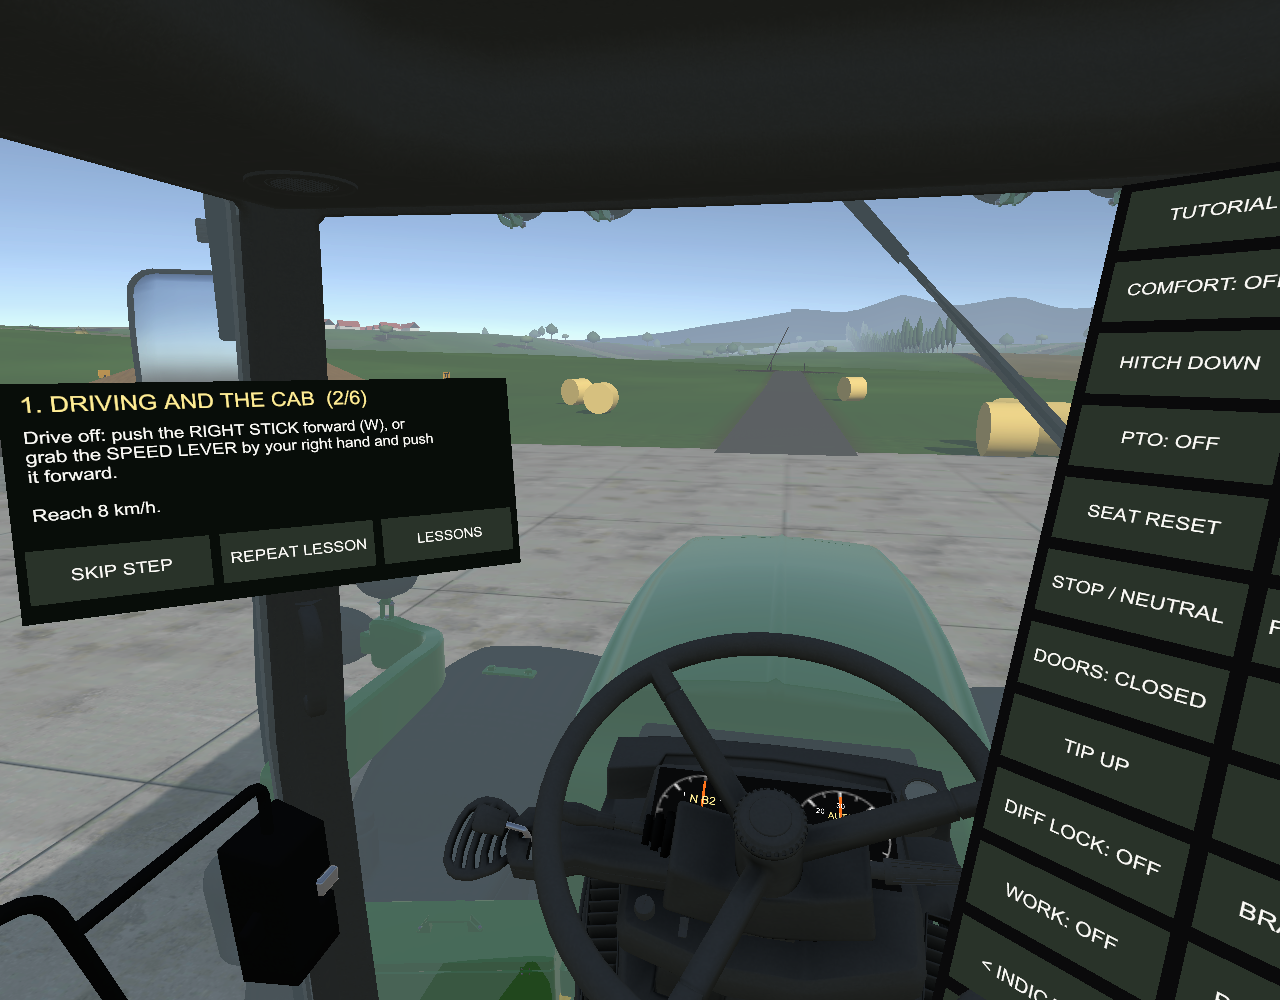
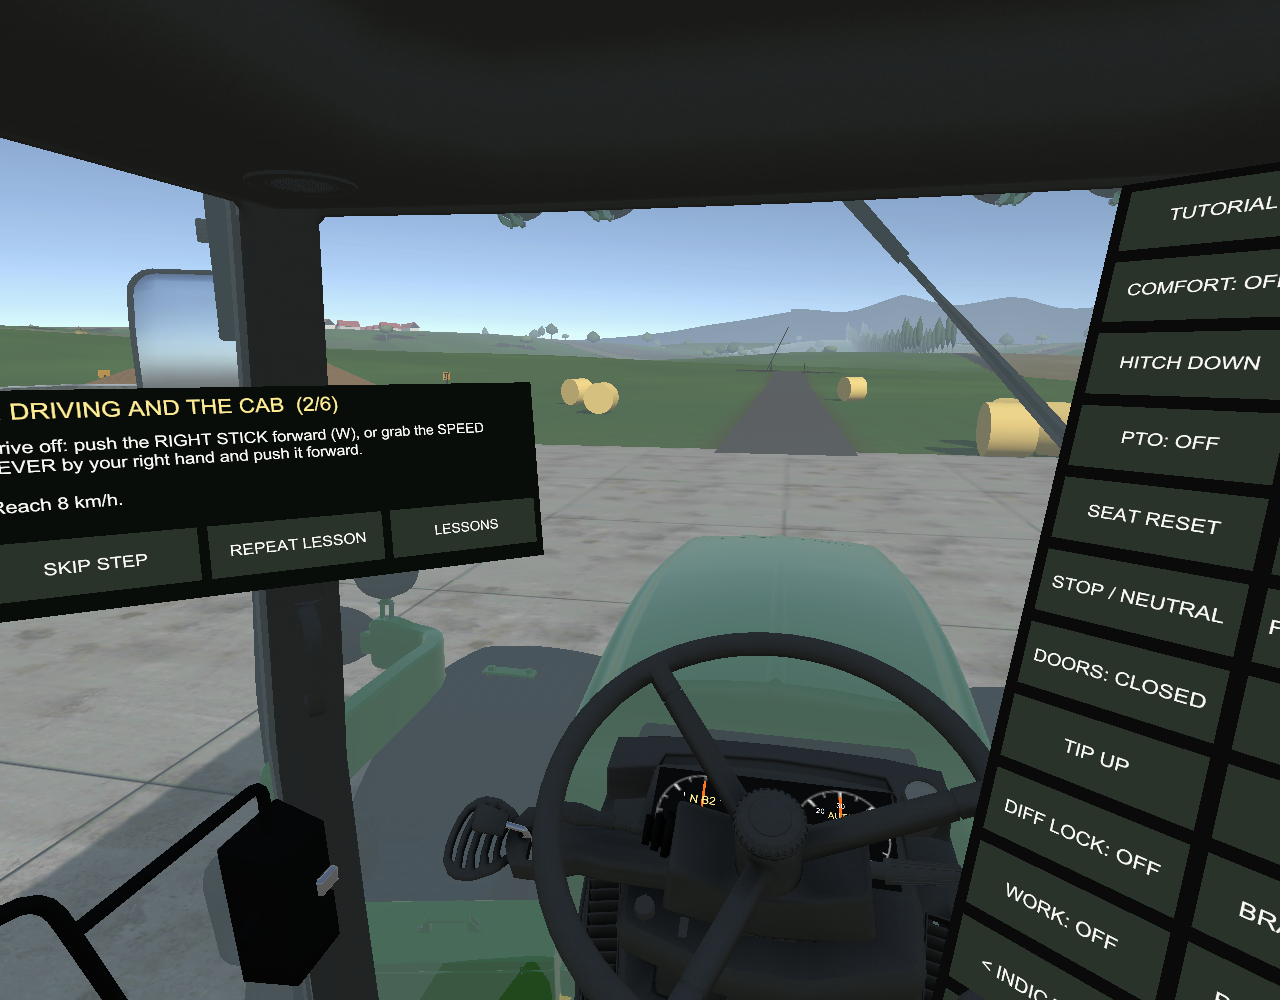
Tutorial board: measure text (font glyph widths), wrap/shrink labels, measured desktop layout

Changed region(s): [[0.0, 0.372, 0.4375, 0.62]]

diff --git a/Assets/Scripts/Tutorial.cs b/Assets/Scripts/Tutorial.cs
@@ -470,8 +470,7 @@ public class Tutorial : MonoBehaviour
     bool dirty = true;
     float cooldown;
 
-    const float BoardW = 0.32f, LineH = 0.0125f, BtnH = 0.034f, Gap = 0.006f;
-    const int WrapChars = 50;
+    const float BoardW = 0.36f, Margin = 0.012f, BtnH = 0.036f, Gap = 0.006f;
 
     void Changed() => dirty = true;
 
@@ -541,9 +540,11 @@ public class Tutorial : MonoBehaviour
         board.gameObject.SetActive(show);
         if (!show) return;
 
-        string body = Wrap(Body, WrapChars);
+        // Line breaks from the font's real glyph widths (a fixed character count let wide letters run off the board).
+        string body = WrapToWidth(bodyText, Body, BoardW - 2f * Margin);
         int lines = body.Split('\n').Length;
         titleText.text = Title;
+        FitSize(titleText, Title, 0.0135f, BoardW - 2f * Margin);
         bodyText.text = body;
         if (dirty || lines != lastLines)
         {
@@ -552,7 +553,11 @@ public class Tutorial : MonoBehaviour
             Layout(lines);
         }
         for (int i = 0; i < boardButtons.Count && i < actions.Count; i++)
-            boardButtons[i].label.text = actions[i].label;
+            if (boardLabels[i] != actions[i].label)
+            {
+                boardLabels[i] = actions[i].label;
+                FitButton(boardButtons[i].label, actions[i].label, boardButtonWidth - 0.012f);
+            }
 
         cooldown -= Time.deltaTime;
         for (int i = 0; i < boardButtons.Count; i++)
@@ -572,6 +577,63 @@ public class Tutorial : MonoBehaviour
         }
     }
 
+    // ---- text measuring (TextMesh: one font pixel = characterSize * 0.1 local units)
+    float Width(TextMesh tm, string line)
+    {
+        font.RequestCharactersInTexture(line, tm.fontSize, tm.fontStyle);
+        float w = 0f;
+        foreach (char c in line)
+            if (font.GetCharacterInfo(c, out CharacterInfo ci, tm.fontSize, tm.fontStyle)) w += ci.advance;
+        return w * tm.characterSize * 0.1f;
+    }
+
+    // Line pitch from the TextMesh size (font.lineHeight is at the font's own size, not tm.fontSize); 1.3 x the size matches the render.
+    float LineHeight(TextMesh tm) => tm.fontSize * tm.characterSize * 0.1f * 1.3f * tm.lineSpacing;
+
+    string WrapToWidth(TextMesh tm, string s, float maxW)
+    {
+        var sb = new System.Text.StringBuilder();
+        foreach (var para in s.Split('\n'))
+        {
+            string line = "";
+            foreach (var word in para.Split(' '))
+            {
+                string tryLine = line.Length == 0 ? word : line + " " + word;
+                if (line.Length > 0 && Width(tm, tryLine) > maxW) { sb.Append(line).Append('\n'); line = word; }
+                else line = tryLine;
+            }
+            sb.Append(line).Append('\n');
+        }
+        return sb.ToString().TrimEnd('\n');
+    }
+
+    static float CharSize(float height, TextMesh tm) => height / (tm.fontSize * 0.1f);
+
+    void FitSize(TextMesh tm, string text, float height, float maxW)
+    {
+        tm.characterSize = CharSize(height, tm);
+        float w = Width(tm, text);
+        if (w > maxW) tm.characterSize *= maxW / w;
+    }
+
+    /// <summary>Button label: one line if it fits, else two lines, else smaller.</summary>
+    void FitButton(TextMesh tm, string text, float maxW)
+    {
+        tm.characterSize = CharSize(0.0105f, tm);
+        if (Width(tm, text) <= maxW) { tm.text = text; return; }
+        tm.characterSize = CharSize(0.0092f, tm);
+        string two = WrapToWidth(tm, text, maxW);
+        while (two.Split('\n').Length > 2 && tm.characterSize > CharSize(0.006f, tm))
+        {
+            tm.characterSize *= 0.9f;
+            two = WrapToWidth(tm, text, maxW);
+        }
+        tm.text = two;
+    }
+
+    float boardButtonWidth;
+    readonly List<string> boardLabels = new List<string>();
+
     void Layout(int lines)
     {
         foreach (var b in boardButtons) { if (Application.isPlaying) Destroy(b.t.gameObject); else DestroyImmediate(b.t.gameObject); }
@@ -579,14 +641,17 @@ public class Tutorial : MonoBehaviour
         int n = actions.Count;
         int cols = n > 4 ? 2 : Mathf.Max(1, n);
         int rows = (n + cols - 1) / cols;
-        float textH = 0.022f + lines * LineH * 1.12f;
+        float titleH = LineHeight(titleText) + 0.006f;
+        float textH = titleH + lines * LineHeight(bodyText) + 0.004f;
         float h = Gap + textH + Gap + rows * (BtnH + Gap) + Gap;
         back.transform.localScale = new Vector3(BoardW, h, 1f);
         back.transform.localPosition = new Vector3(0f, 0f, 0.003f);
         float top = h * 0.5f - Gap;
-        titleText.transform.localPosition = new Vector3(-BoardW * 0.5f + 0.012f, top, -0.001f);
-        bodyText.transform.localPosition = new Vector3(-BoardW * 0.5f + 0.012f, top - 0.022f, -0.001f);
+        titleText.transform.localPosition = new Vector3(-BoardW * 0.5f + Margin, top, -0.001f);
+        bodyText.transform.localPosition = new Vector3(-BoardW * 0.5f + Margin, top - titleH, -0.001f);
         float bw = (BoardW - (cols + 1) * Gap) / cols;
+        boardButtonWidth = bw;
+        boardLabels.Clear();
         float y0 = top - textH - Gap - BtnH * 0.5f;
         for (int i = 0; i < n; i++)
         {
@@ -601,7 +666,8 @@ public class Tutorial : MonoBehaviour
             label.alignment = TextAlignment.Center;
             label.transform.localPosition = new Vector3(0f, 0f, -0.07f);
             label.transform.localScale = new Vector3(1f / bw, 1f / BtnH, 1f);
-            boardButtons.Add((t, face, label, true));   // "inside" until the hand leaves: no press on the frame a page opens
+            boardButtons.Add((t, face, label, true));
+            boardLabels.Add(null);   // "inside" until the hand leaves: no press on the frame a page opens
         }
     }
 
@@ -661,7 +727,8 @@ public class Tutorial : MonoBehaviour
     public void Preview(int lesson, int step)
     {
         if (board == null) { Instance = this; cones.Clear(); lessons.Clear(); BuildLessons(); BuildBoard(); }
-        if (lesson < 0) ShowStart();
+        if (lesson == -2) ShowLessons();
+        else if (lesson < 0) ShowStart();
         else { lessonIndex = lesson; page = Page.Step; EnterStep(step); }
         UpdateBoard();
         UpdateHalos();

diff --git a/Assets/Scripts/DesktopMode.cs b/Assets/Scripts/DesktopMode.cs
@@ -345,21 +345,42 @@ public class DesktopMode : MonoBehaviour
         var tut = Tutorial.Instance;
         if (tut != null && tut.Visible)
         {
-            float tw = Mathf.Min(Screen.width * 0.36f, u * 22f);
+            // Sizes measured from the text: the box grows with the title and body, buttons drop to one column when their labels
+            // are long, and a label that still doesn't fit wraps onto two lines (taller button).
+            float tw = Mathf.Min(Screen.width * 0.42f, u * 30f), inner = tw - u;
             var titleStyle = new GUIStyle(labelStyle) { fontStyle = FontStyle.Bold, normal = { textColor = new Color(1f, 0.85f, 0.3f) } };
-            float bodyH = labelStyle.CalcHeight(new GUIContent(tut.Body), tw - u);
-            int nb = tut.ButtonCount, tcols = nb > 4 ? 2 : Mathf.Max(1, nb), tbrows = (nb + tcols - 1) / tcols;
-            Rect box = new Rect(u * 0.5f, u, tw, u * 1.6f + bodyH + tbrows * (u + gap) + u * 0.6f);
+            var tutButton = new GUIStyle(buttonStyle) { wordWrap = true };
+            float titleH = titleStyle.CalcHeight(new GUIContent(tut.Title), inner);
+            float bodyH = labelStyle.CalcHeight(new GUIContent(tut.Body), inner);
+            int nb = tut.ButtonCount;
+            float widest = 0f;
+            for (int i = 0; i < nb; i++) widest = Mathf.Max(widest, tutButton.CalcSize(new GUIContent(tut.ButtonLabel(i))).x + u * 0.4f);
+            int tcols = nb <= 1 ? 1 : nb > 4 ? 2 : nb;
+            while (tcols > 1 && widest > (inner - (tcols - 1) * gap) / tcols) tcols--;
+            float bw2 = (inner - (tcols - 1) * gap) / tcols;
+            int tbrows = (nb + tcols - 1) / tcols;
+            var rowH = new float[Mathf.Max(1, tbrows)];
+            for (int i = 0; i < nb; i++)
+                rowH[i / tcols] = Mathf.Max(rowH[i / tcols], Mathf.Max(u, tutButton.CalcHeight(new GUIContent(tut.ButtonLabel(i)), bw2) + u * 0.2f));
+            float buttonsH = 0f;
+            for (int r = 0; r < tbrows; r++) buttonsH += rowH[r] + gap;
+            Rect box = new Rect(u * 0.5f, u, tw, u * 0.3f + titleH + u * 0.3f + bodyH + u * 0.4f + buttonsH + u * 0.3f);
             tutorialRect = box;
             GUI.Box(box, GUIContent.none, boxStyle);
-            GUI.Label(new Rect(box.x + u * 0.5f, box.y + u * 0.3f, tw - u, u * 1.2f), tut.Title, titleStyle);
-            GUI.Label(new Rect(box.x + u * 0.5f, box.y + u * 1.5f, tw - u, bodyH), tut.Body, labelStyle);
-            float bw2 = (tw - u - (tcols - 1) * gap) / tcols, by = box.y + u * 1.6f + bodyH + u * 0.2f;
+            float y = box.y + u * 0.3f;
+            GUI.Label(new Rect(box.x + u * 0.5f, y, inner, titleH), tut.Title, titleStyle);
+            y += titleH + u * 0.3f;
+            GUI.Label(new Rect(box.x + u * 0.5f, y, inner, bodyH), tut.Body, labelStyle);
+            y += bodyH + u * 0.4f;
+            int pressed = -1;
             for (int i = 0; i < nb; i++)
             {
-                Rect r = new Rect(box.x + u * 0.5f + (i % tcols) * (bw2 + gap), by + (i / tcols) * (u + gap), bw2, u);
-                if (GUI.Button(r, tut.ButtonLabel(i), buttonStyle)) { tut.Press(i); break; }
+                int r = i / tcols, c = i % tcols;
+                float ry = y;
+                for (int k = 0; k < r; k++) ry += rowH[k] + gap;
+                if (GUI.Button(new Rect(box.x + u * 0.5f + c * (bw2 + gap), ry, bw2, rowH[r]), tut.ButtonLabel(i), tutButton)) pressed = i;
             }
+            if (pressed >= 0) tut.Press(pressed);
         }
         else tutorialRect = Rect.zero;
 

diff --git a/Assets/Scripts/Editor/ProjectSetup.cs b/Assets/Scripts/Editor/ProjectSetup.cs
@@ -3209,6 +3209,8 @@ public static class ProjectSetup
         {
             tutorial.Preview(-1, 0);
             Shot("tutorial_start.png", seat.position, Quaternion.LookRotation(tutorial.transform.position - seat.position));
+            tutorial.Preview(-2, 0);
+            Shot("tutorial_lessons.png", seat.position, Quaternion.LookRotation(tutorial.transform.position - seat.position));
             tutorial.Preview(0, 1);
             Shot("tutorial_step.png", seat.position, Quaternion.LookRotation(tutorial.transform.position + tractor.right * 0.25f - seat.position));
             tutorial.Preview(3, 1);

diff --git a/docs/DEVLOG.md b/docs/DEVLOG.md
@@ -1295,3 +1295,9 @@ Builds: Quest APK and PC exe rebuilt (both 0 errors). Not yet seen in the headse
 | The village on its plateau | The goal glow over the plough's bay |
 |---|---|
 | ![village](images/phase5_village.png) | ![goal](images/phase6_goal.png) |
+
+**Fix (user, same evening): text ran out of the tutorial boxes in both versions.** The board wrapped at a fixed 50 characters,
+but the letters are wider than that assumed. Now the line breaks come from the font's real glyph widths, the title shrinks to fit, button labels
+wrap onto two lines (or shrink), and the board height follows the measured line pitch (the font's `lineHeight` is at its own size,
+not the TextMesh size: first try overlapped). Board 36 cm wide. Desktop: the box, title, body and buttons are sized with
+`GUIStyle.CalcHeight / CalcSize`; buttons drop to one column when their labels are long and wrap if needed. New preview `tutorial_lessons`.
